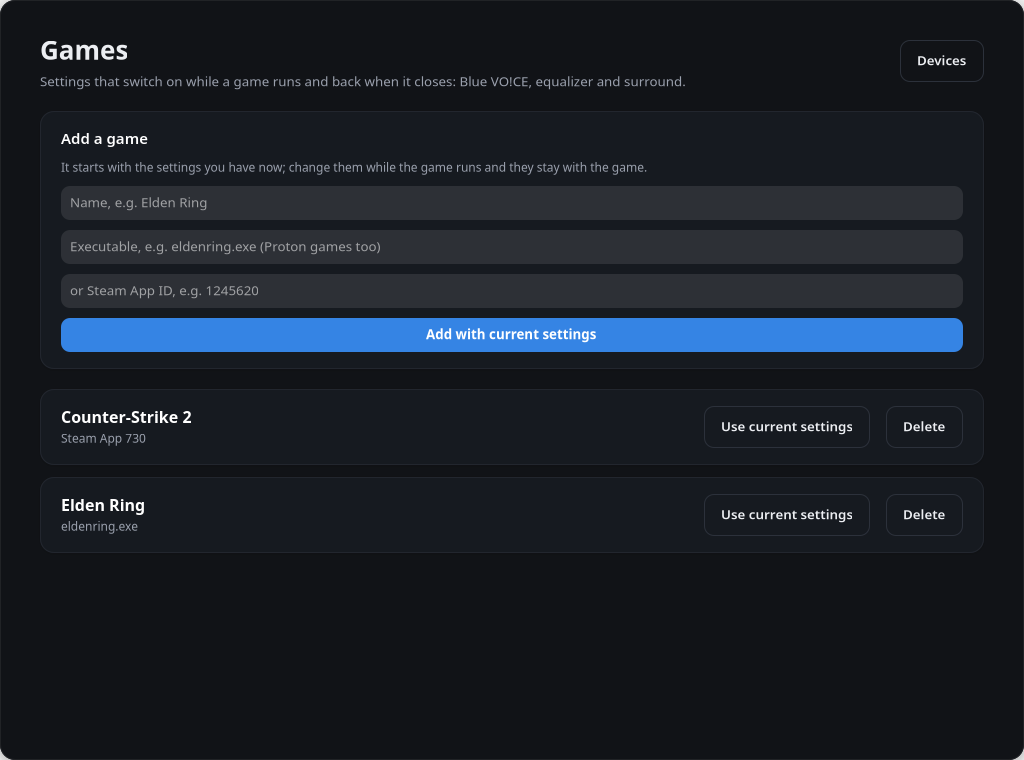
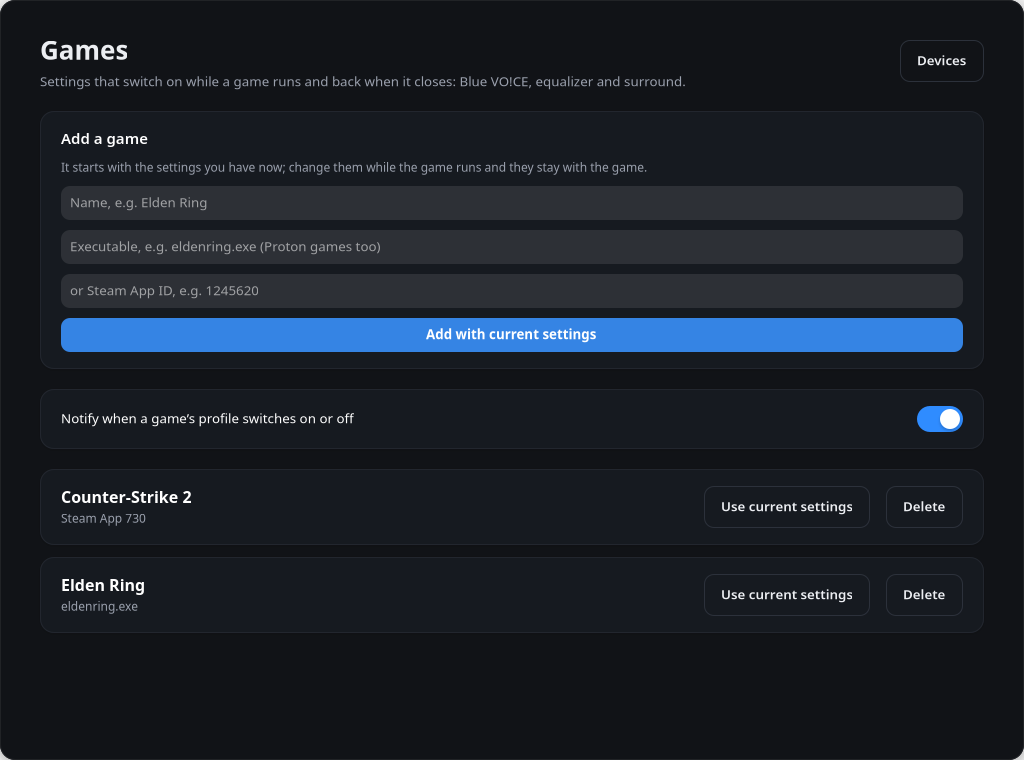
Notification when a game profile switches on or off
Like G HUB's profile-activated notification; a switch on the Games page
turns it off. Screenshot updated.

Claude-Session: https://claude.ai/code/session_01YM4ymSrNn6ziqWrhZWUPKR

diff --git a/profiles.py b/profiles.py
@@ -91,6 +91,14 @@ def running(profiles, processes=None):
 	return None
 
 
+def _notify(title, body):
+	"""G HUB's profile-activated notification (desktop notifications on, battery_watch's sender)."""
+	import store
+	if store.load_config().get('profile_notifications', True):
+		import battery_watch
+		battery_watch.notify(title, body)
+
+
 class Switcher:
 	"""Used by the engine: applies a game's profile while it runs."""
 
@@ -113,7 +121,9 @@ class Switcher:
 			restore(game['settings'])
 			data['active'] = game['id']
 			save(data)
-			print(f"engine: {game['application'].get('name')} started: its profile is on", flush=True)
+			name = game['application'].get('name')
+			print(f"engine: {name} started: its profile is on", flush=True)
+			_notify(f'{name} profile on', 'Its settings are on while it runs.')
 		elif not game and active:
 			for p in data['profiles']:      # changes made while it ran belong to its profile, as in G HUB
 				if p['id'] == active:
@@ -122,4 +132,5 @@ class Switcher:
 			data.pop('active', None)
 			save(data)
 			print('engine: game closed: settings are back', flush=True)
+			_notify('Desktop profile on', 'The game closed; your usual settings are back.')
 		return data.get('active')

diff --git a/tests/test_profiles.py b/tests/test_profiles.py
@@ -42,7 +42,8 @@ class SwitcherTest(unittest.TestCase):
 				state['eq'] = settings.get('equalizer')
 
 			with mock.patch.object(profiles, 'FILE', os.path.join(d, 'g.json')), \
-					mock.patch.object(profiles, 'snapshot', snapshot), mock.patch.object(profiles, 'restore', restore):
+					mock.patch.object(profiles, 'snapshot', snapshot), mock.patch.object(profiles, 'restore', restore), \
+					mock.patch.object(profiles, '_notify') as notify:
 				game = profiles.new_profile('Game', executable='game')
 				game['settings'] = {'equalizer': 'fps'}
 				profiles.save({'profiles': [game]})
@@ -55,6 +56,7 @@ class SwitcherTest(unittest.TestCase):
 					self.assertIsNone(sw.check(10))
 				self.assertEqual(state['eq'], 'desktop')
 				self.assertEqual(profiles.load()['profiles'][0]['settings'], {'equalizer': 'fps tweaked'})
+				self.assertEqual([c.args[0] for c in notify.call_args_list], ['Game profile on', 'Desktop profile on'])
 
 
 if __name__ == '__main__':

diff --git a/games_ui.py b/games_ui.py
@@ -28,10 +28,23 @@ class GamesPage(Gtk.Box):
 		add.append(button_widget('Add with current settings', ['suggested-action'], self._add))
 		self.append(add)
 
+		note = box(Gtk.Orientation.HORIZONTAL, 16, ['card'])
+		note.append(label('Notify when a game’s profile switches on or off', hexpand=True, valign=Gtk.Align.CENTER))
+		sw = Gtk.Switch(active=store.load_config().get('profile_notifications', True), valign=Gtk.Align.CENTER)
+		sw.connect('notify::active', self._notifications)
+		note.append(sw)
+		self.append(note)
+
 		self.list = box(spacing=12)
 		self.append(self.list)
 		self.refresh()
 		self._timer = GLib.timeout_add_seconds(2, self._poll)
+
+	@staticmethod
+	def _notifications(sw, _p):
+		cfg = store.load_config()
+		cfg['profile_notifications'] = sw.get_active()
+		store.save_config(cfg)
 
 	def refresh(self):
 		while (child := self.list.get_first_child()):

diff --git a/TODO.md b/TODO.md
@@ -139,8 +139,8 @@ G HUB sets 5 band gains (+-12 dB) on the headset's own Conexant chip through
 
 ### App
 - Low-battery notifications done (G HUB's LOW 30 % / CRITICAL 15 %; checking every 5 minutes is
-  ours). G HUB's other desktop notifications (profile switched, equalizer / surround toggled from
-  a headset button) not yet.
+  ours). Game-profile notifications done too (switch on the Games page). Not yet: G HUB's
+  equalizer / surround notifications from a headset button.
 - **Firmware updates**: not planned (a mistake can brick a device).
 - **Discord / OBS integrations**: not planned.
 - **Racing wheels and pedals** (0x8123-0x8140): nobody here owns one.

diff --git a/README.md b/README.md
@@ -41,7 +41,8 @@ reverb, delay, ring modulator). Untested on a real Yeti.
 
 **Games.** Settings that switch on while a game runs, like G HUB's game profiles: add a game by
 its executable (Proton games too) or Steam App ID, and its Blue VO!CE, equalizer and surround
-settings come on when it starts and go back when it closes.
+settings come on when it starts and go back when it closes, with a desktop notification each
+time (can be turned off).
 
 | Blue VO!CE 2 (Yeti X) | Games |
 | --- | --- |
